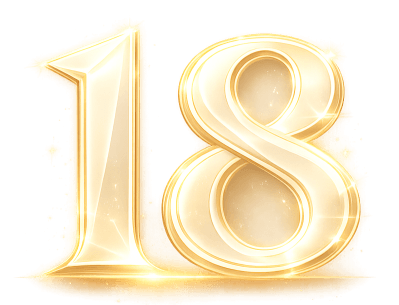
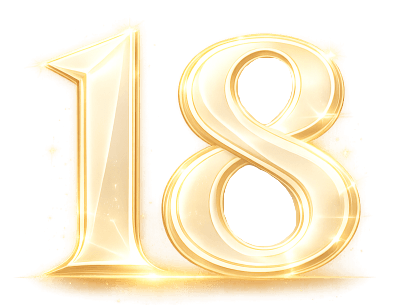
Andjela: changed fonts and style

Changed region(s): [[0.5414, 0.5311, 0.7519, 0.8262], [0.5714, 0.177, 0.7519, 0.4131]]

diff --git a/index.html b/index.html
@@ -11,8 +11,8 @@
   <!-- Open Graph -->
   <meta property="og:title" content="Pozivnica za 18. rodjendan" />
   <meta property="og:description" content="Pozivnica za Masin i Vukasinov rodjendan" />
-  <meta property="og:image" content="https://masaivukasin.netlify.app/images/18.png" />
-  <meta property="og:url" content="https://masaivukasin.netlify.app" />
+  <meta property="og:image" content="https://masin-i-vukasinov-18.netlify.app/images/18.png" />
+  <meta property="og:url" content="https://masin-i-vukasinov-18.netlify.app" />
   <meta property="og:type" content="website" />
   <meta property="og:locale" content="sr_RS" />
 
@@ -20,16 +20,16 @@
   <meta name="twitter:card" content="summary_large_image" />
   <meta name="twitter:title" content="Pozivnica za 18. rodjendan" />
   <meta name="twitter:description" content="Pozivnica za Masin i Vukasinov rodjendan" />
-  <meta name="twitter:image" content="https://masaivukasin.netlify.app/images/18.png" />
+  <meta name="twitter:image" content="https://masin-i-vukasinov-18.netlify.app/images/18.png" />
 
-  <link rel="canonical" href="https://masaivukasin.netlify.app" />
+  <link rel="canonical" href="https://masin-i-vukasinov-18.netlify.app" />
 
 <link rel="apple-touch-icon" sizes="180x180" href="icons/apple-touch-icon.png">
 <link rel="icon" type="image/png" sizes="32x32" href="icons/favicon-32x32.png">
 <link rel="icon" type="image/png" sizes="16x16" href="icons/favicon-16x16.png">
 <link rel="manifest" href="icons/site.webmanifest">
 
-  <link href="https://fonts.googleapis.com/css2?family=Amita:wght@300;400&family=Corinthia&display=block"
+  <link href="https://fonts.googleapis.com/css2?family=Amita:wght@300;400&family=Corinthia&family=Amita:wght@400;700&family=Merriweather:ital,opsz,wght@0,18..144,300..900;1,18..144,300..900&display=block"
     rel="stylesheet">
   <link rel="preconnect" href="https://fonts.googleapis.com">
   <link rel="preconnect" href="https://fonts.gstatic.com" crossorigin>
@@ -57,14 +57,14 @@
     <div class="big18">ROĐENDANA</div>
   </div>
   <br>
-  <br>
+  <div class="ornament-decor"><span class="diamond-decor"></span></div>
 
   <div class="royal-noir">
     <div class="card">
       <div class="split">
         <div>
           <span class="small">18. april</span>
-          <strong>2026</strong>
+          <strong>2026.</strong>
         </div>
         <div>
           <span class="small">u</span>
@@ -73,7 +73,7 @@
       </div>
 
       <div class="content">
-        <div class="ornament"><span class="diamond"></span></div>
+        <!-- <div class="ornament"><span class="diamond"></span></div> -->
         <h2>Zeleni vir</h2>
         <a href="https://maps.app.goo.gl/F1GNyYh7GFw3oPc4A" target="_blank" class="btn">
           <span class="pin"></span>
@@ -88,6 +88,7 @@
   <!-- COUNTDOWN AND RSVP -->
   <div class="countdown-section">
     <div>Vidimo se za</div>
+    <br>
     <div class="gold-flip vertical">
       <div class="countdown">
 
@@ -140,7 +141,7 @@
 
   <div class="ornament-decor"><span class="diamond-decor"></span></div>
 
-  <div class="rsvp">Dolazak potvrditi do 5. aprila</div>
+  <div class="rsvp">Dolazak potvrditi do 10. aprila</div>
   <div class="cheers"></div>
 
 

diff --git a/styles.css b/styles.css
@@ -9,7 +9,8 @@ html {
 }
 
 body {
-    font-family: "Amita", serif;
+    /* font-family: "Amita", serif; */
+    font-family: "Merriweather", serif;
     background: #000;
     color: #f5e6c8;
     overflow-x: hidden;
@@ -21,7 +22,6 @@ a {
 }
 
 section,
-.invite,
 .countdown-section,
 .rsvp {
     width: 100%;
@@ -59,11 +59,28 @@ section,
     z-index: 2;
     margin-top: auto;
     font-size: 2.5rem;
-    letter-spacing: 2px;
+    letter-spacing: 5px;
     text-transform: uppercase;
+    font-family: "Corinthia", cursive;
 }
 
 /* Invite */
+.invite {
+    width: 100%;
+    scroll-snap-align: start;
+    display: flex;
+    flex-direction: column;
+    align-items: center;
+    text-align: center;
+    padding-top: 20px;
+    padding-bottom: 20px;
+    font-family: "Merriweather", serif;
+    font-optical-sizing: auto;
+    font-weight: 400;
+    font-style: normal;
+    font-variation-settings:
+        "wdth" 100;
+}
 
 .invite-top {
     margin-bottom: 20px;
@@ -155,7 +172,7 @@ canvas {
     display: flex;
     justify-content: center;
     padding: 40px;
-    background: #111;
+    /* background: #111; */
 }
 
 .royal-noir .card {
@@ -186,11 +203,9 @@ canvas {
     content: "";
     position: absolute;
     inset: 0;
-    background: repeating-linear-gradient(
-        -45deg,
-        rgba(255, 255, 255, 0.08) 0 2px,
-        transparent 2px 12px
-    );
+    background: repeating-linear-gradient(-45deg,
+            rgba(255, 255, 255, 0.08) 0 2px,
+            transparent 2px 12px);
 }
 
 .royal-noir .top::after {
@@ -231,7 +246,7 @@ canvas {
     text-align: center;
 }
 
-.royal-noir .split div + div {
+.royal-noir .split div+div {
     border-left: 1px solid rgba(205, 163, 58, 0.3);
 }
 
@@ -311,6 +326,7 @@ canvas {
     from {
         filter: drop-shadow(0 0 5px #d4af37);
     }
+
     to {
         filter: drop-shadow(0 0 20px #d4af37);
     }
@@ -321,6 +337,7 @@ canvas {
         opacity: 0;
         transform: translateY(30px);
     }
+
     to {
         opacity: 1;
         transform: translateY(0);
@@ -328,10 +345,12 @@ canvas {
 }
 
 @keyframes float {
+
     0%,
     100% {
         transform: translateY(0);
     }
+
     50% {
         transform: translateY(-8px);
     }
